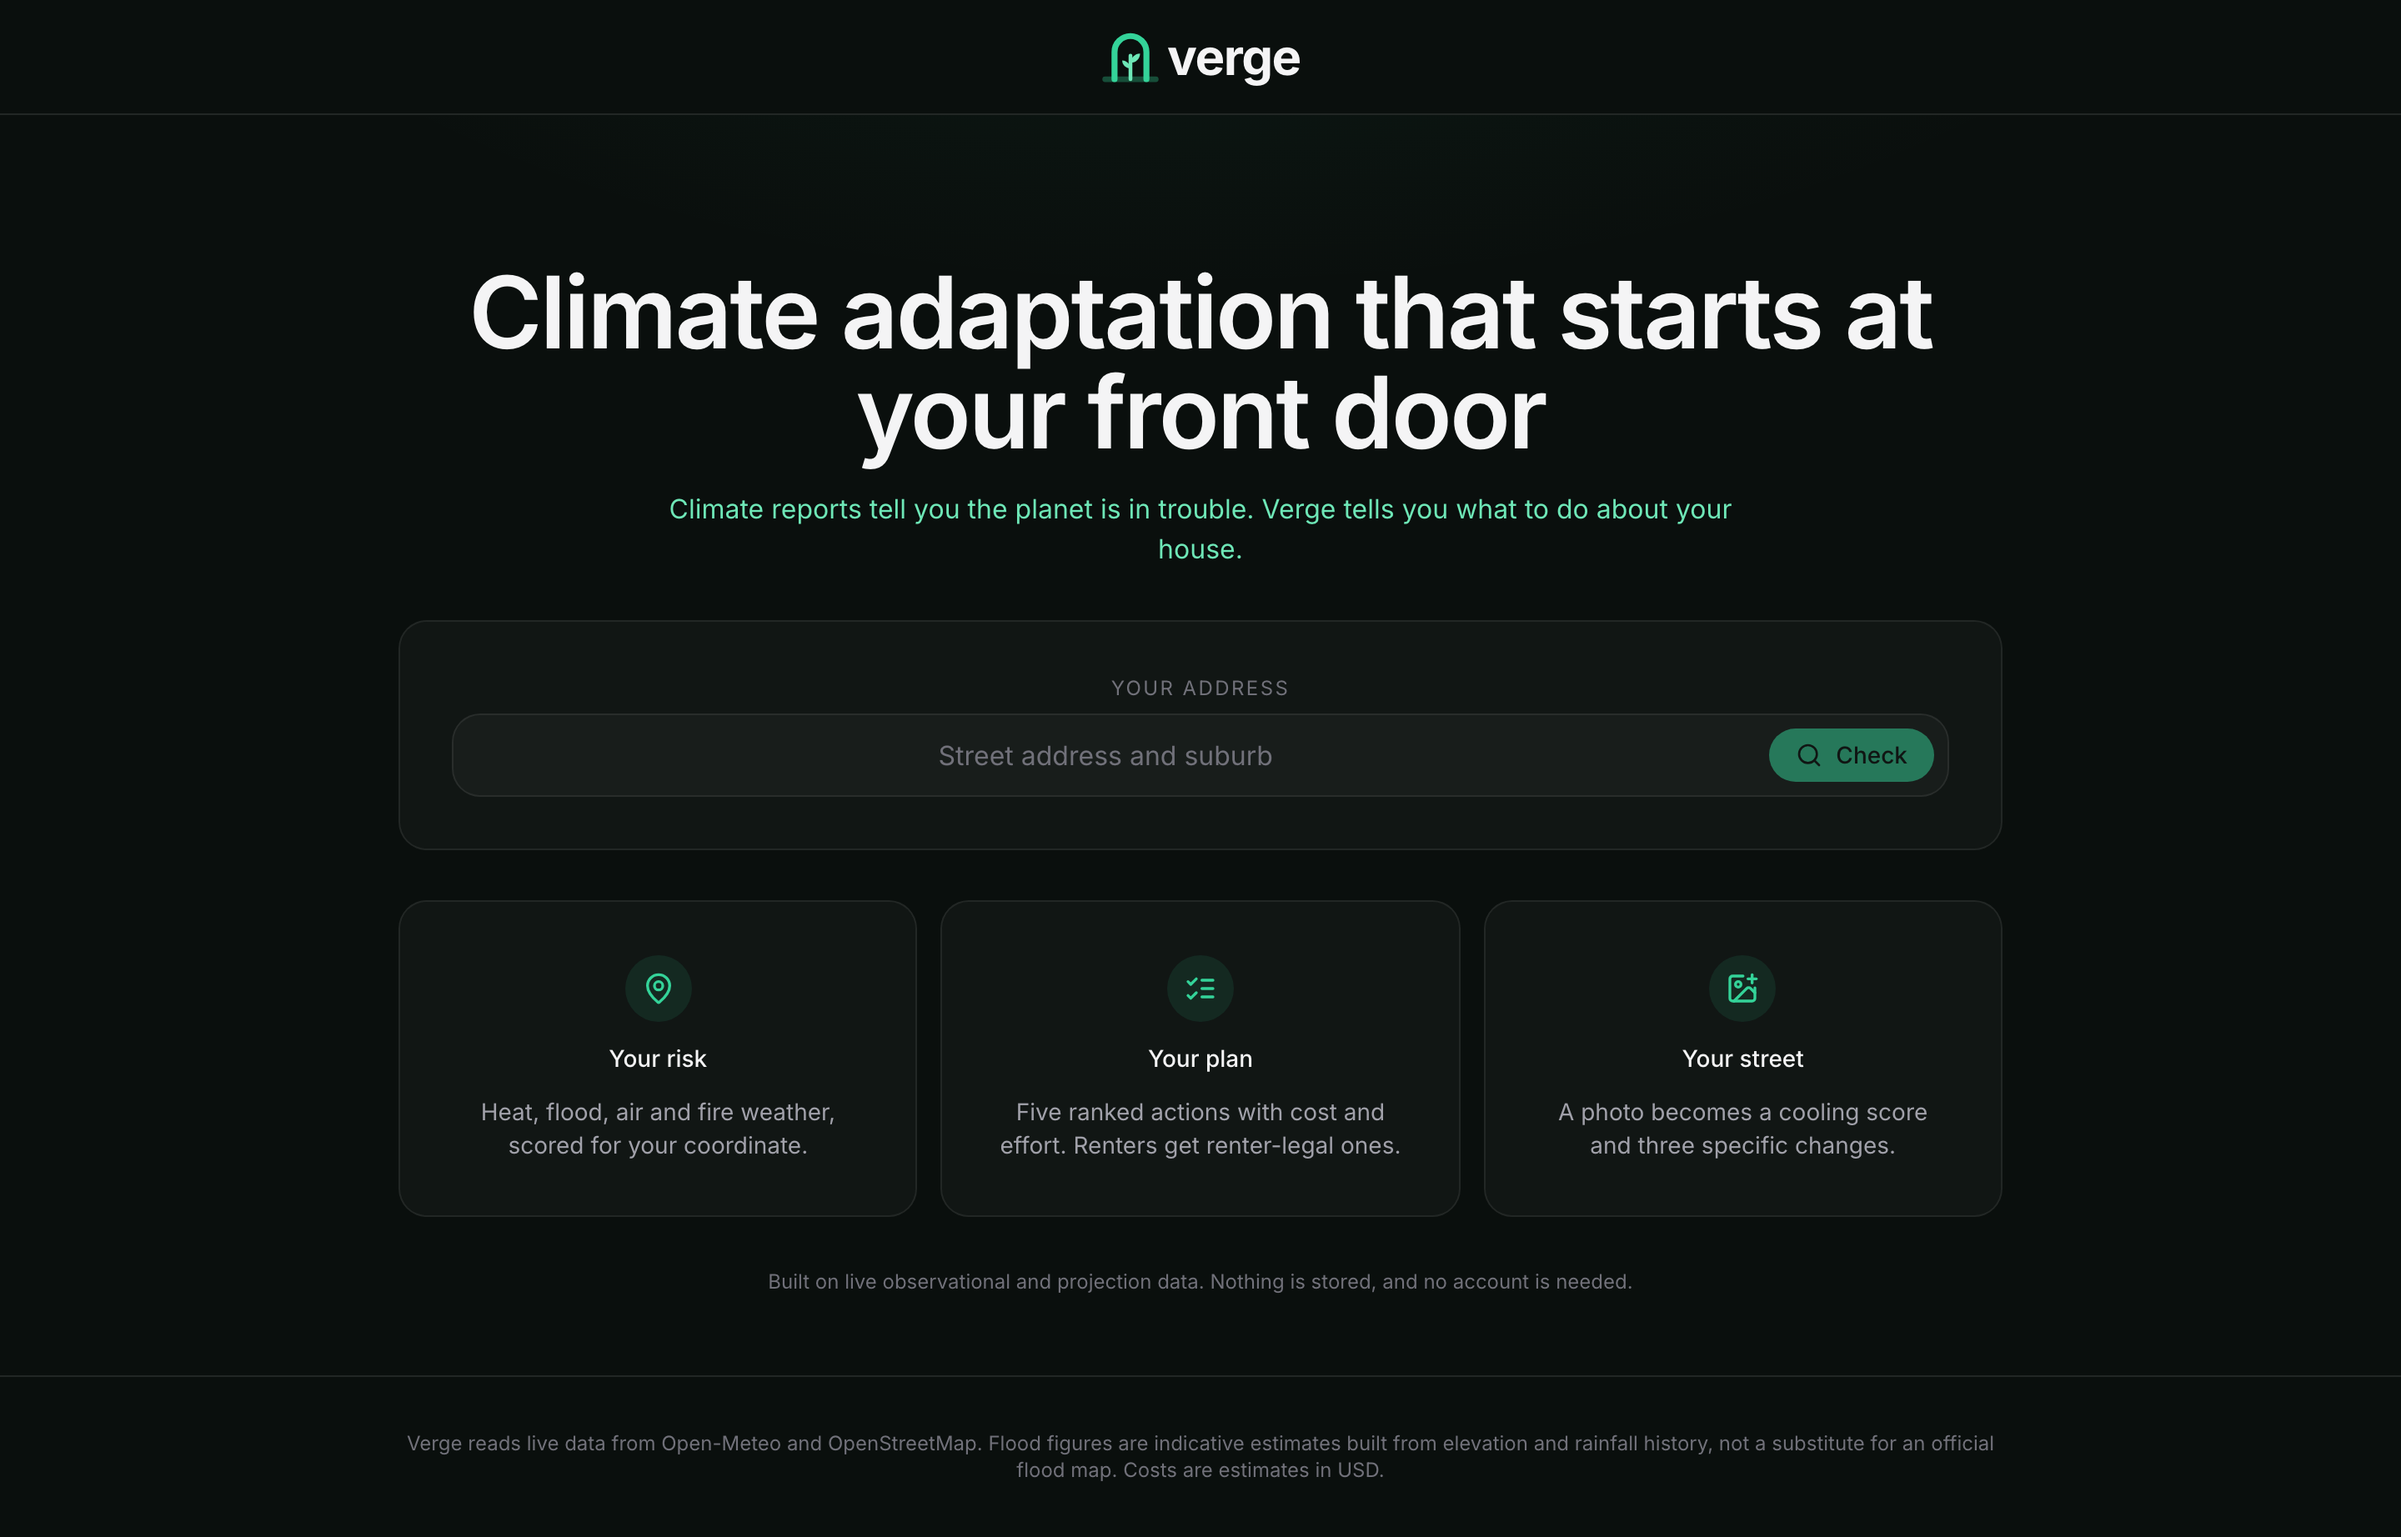
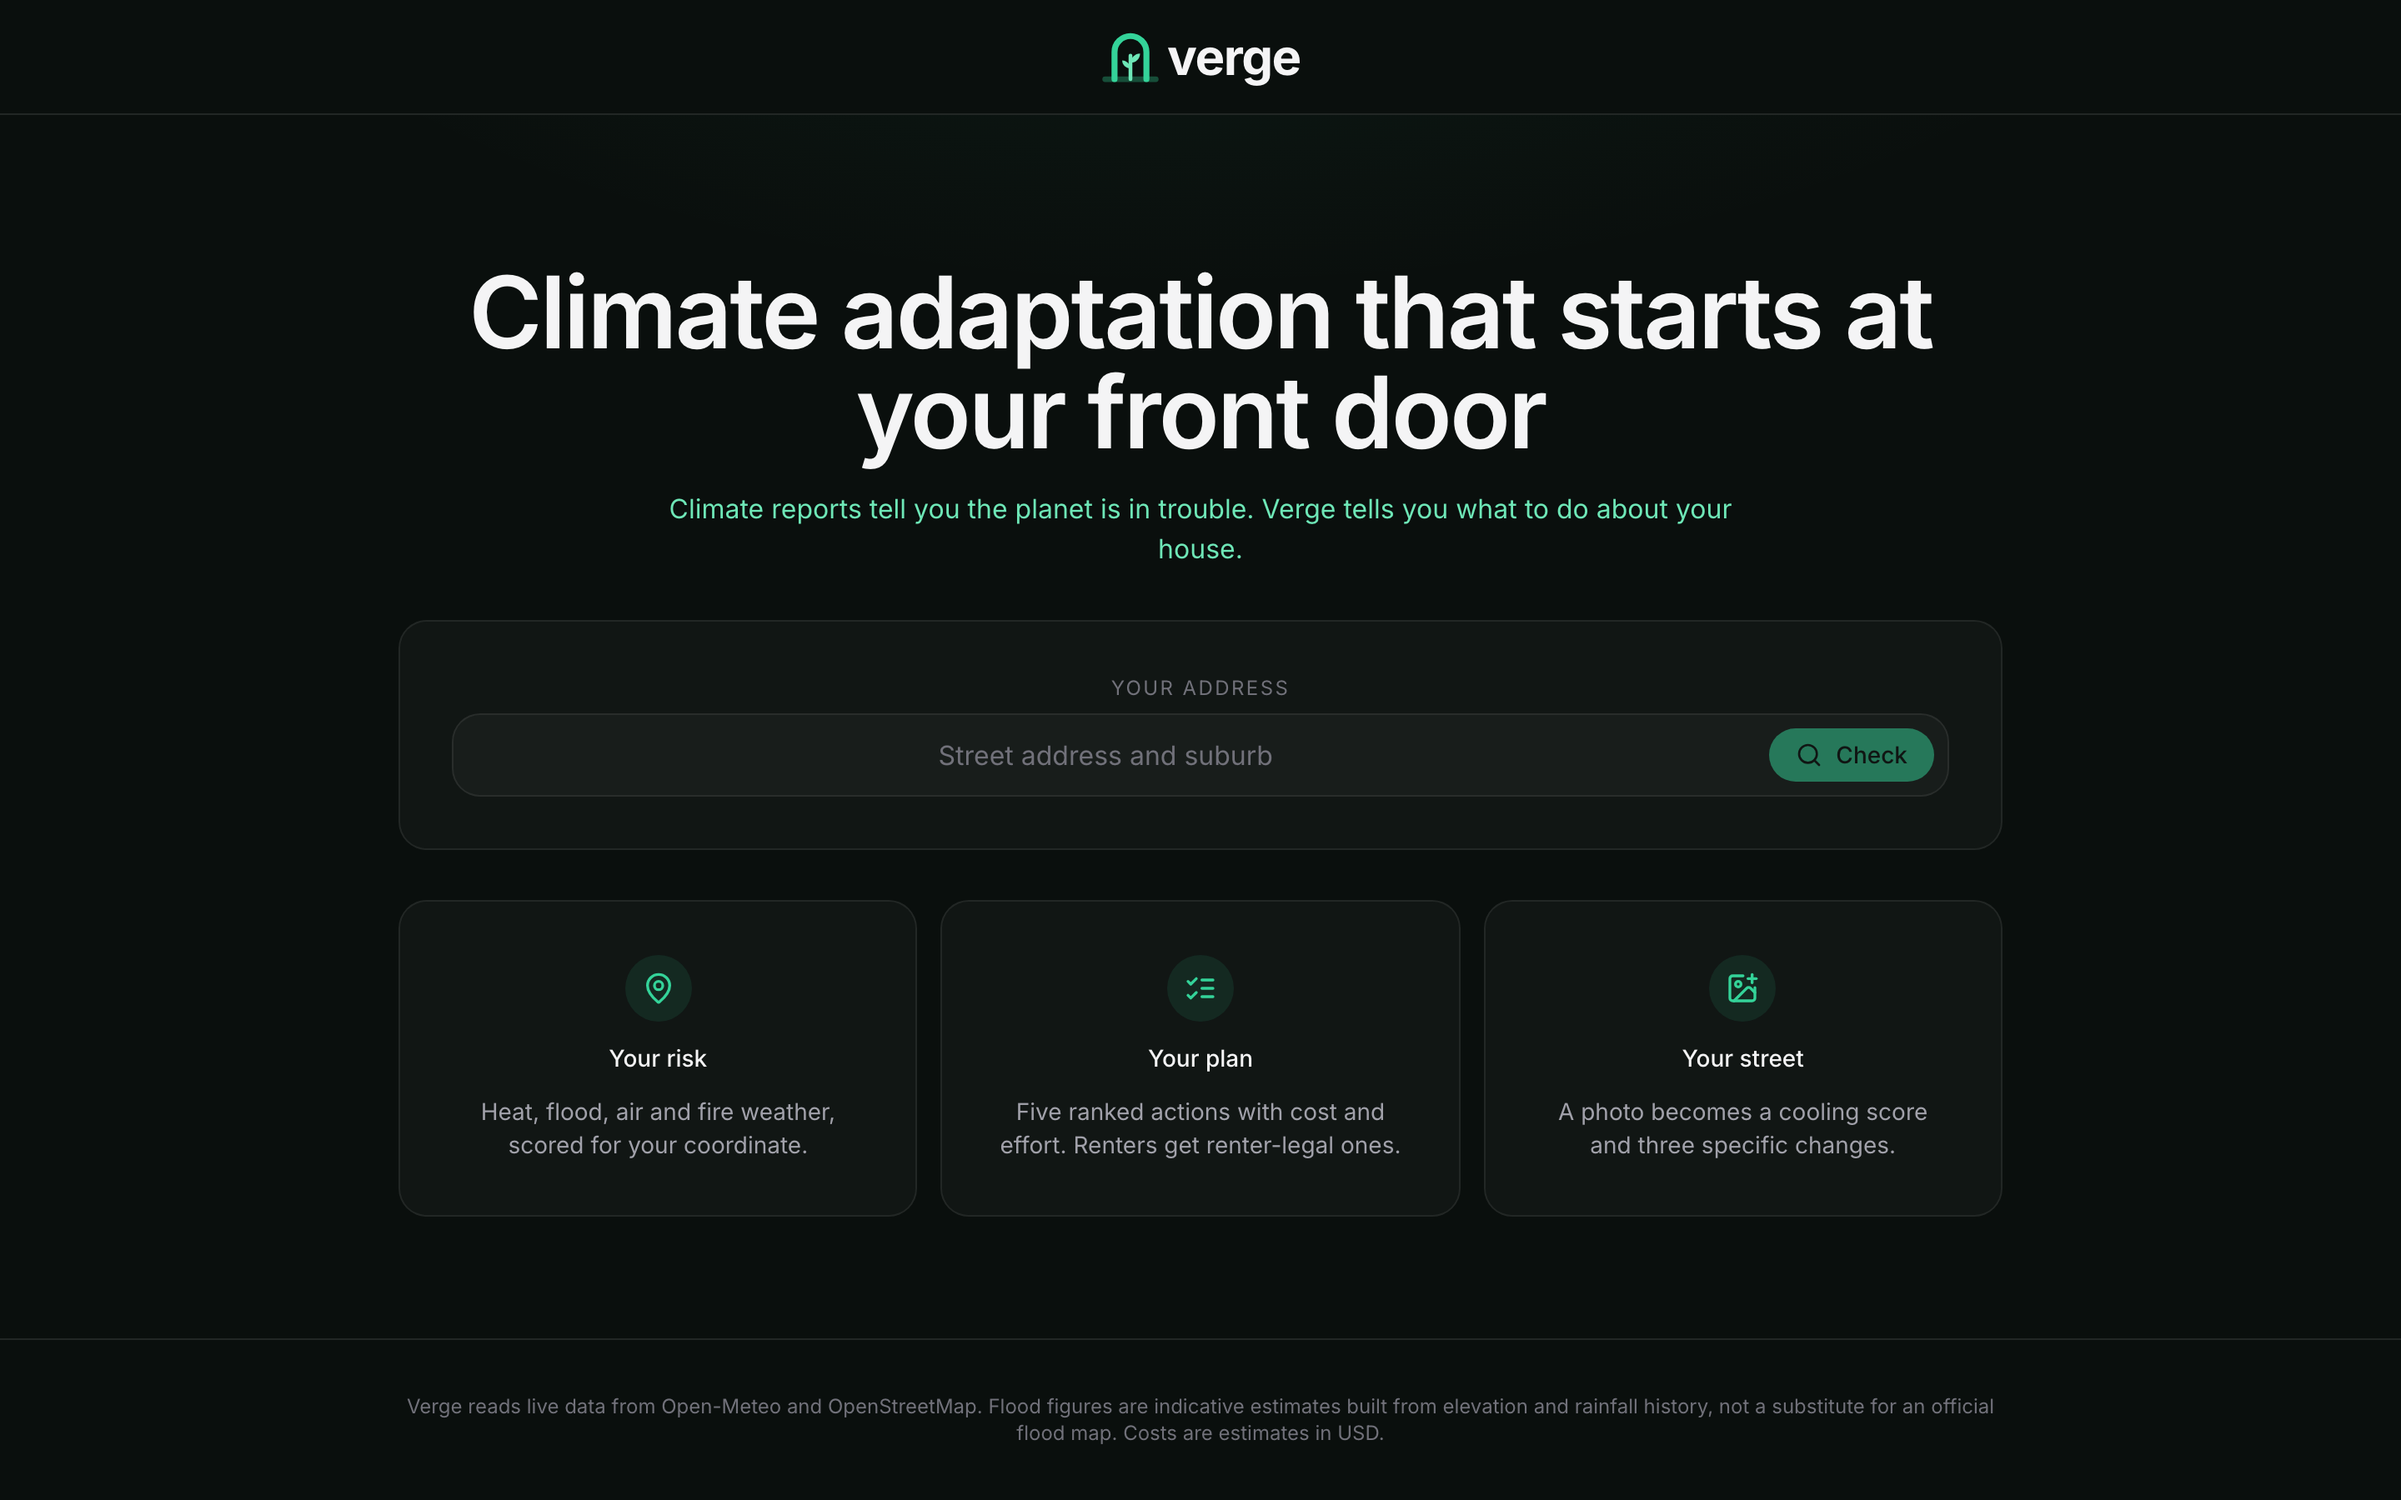
Remove the data note from the home page
The front door has one job. The disclosure it carried is still on every page in
the footer, and on the dials themselves where each figure says what it is.

diff --git a/src/components/home/HomePage.tsx b/src/components/home/HomePage.tsx
@@ -93,11 +93,6 @@ export function HomePage({ onSearch, loading = false, error }: HomePageProps) {
           )
         })}
       </ul>
-
-      <p className="text-center text-xs text-zinc-500">
-        Built on live observational and projection data. Nothing is stored, and no
-        account is needed.
-      </p>
     </div>
   )
 }
